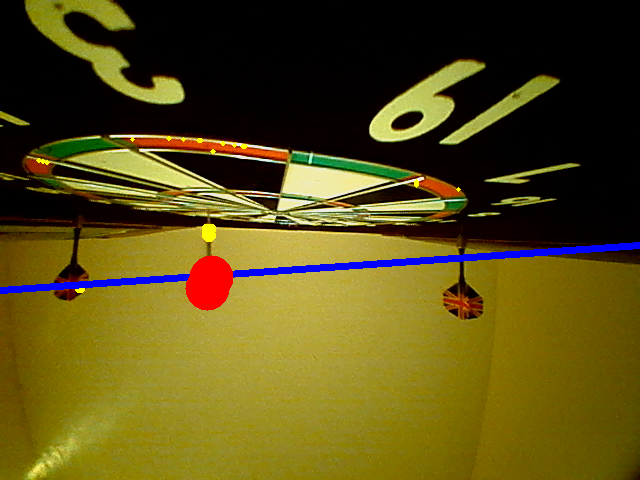
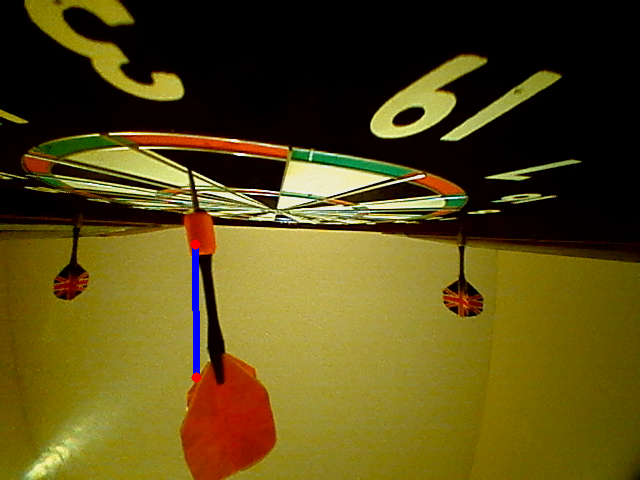
Improves cluster and line drawing systems

diff --git a/screenshot.py b/screenshot.py
@@ -74,45 +74,60 @@ def showResult(coordArr):
     yArr = []
     img = cv2.imread('assets/screenshot.png')
 
-    clusterArr = []
     clusterRange = 40
-    for i in range(len(coordArr)):
-        score = 0
-        for j in range(len(coordArr)):
-            if i == j:
-                pass
-            else:
-                if (coordArr[i][0] - coordArr[j][0])^2 + (coordArr[i][1] - coordArr[j][1])^2 < clusterRange^2:
-                    score = score + 1
-        clusterArr.append(score)
-
-    newClusterArr = clusterArr
-    newClusterArr.sort()
-    highestScores = []
-    clusterPos = []
-    clusterPoint = []
     numClusterPts = 2
-    for i in range(numClusterPts):
-        highestScores.append(newClusterArr[(i+1)*-1])
-    for i in range(numClusterPts):
-        clusterPos.append(clusterArr.index(highestScores[i]))
-        clusterPoint.append(coordArr[clusterPos[i]])        
+    clusterPointArr = []
 
-    if coordArr and len(coordArr) > 0:
+
+    for x in range(numClusterPts):
+        clusterArr = []
         for i in range(len(coordArr)):
-            cv2.circle(img, (coordArr[i][0], coordArr[i][1]), 2, (0, 255, 255), -1)
-            xArr.append(coordArr[i][0])
-            yArr.append(coordArr[i][1])
+            score = 0
+            for j in range(len(coordArr)):
+                if i == j:
+                    pass
+                else:
+                    if (coordArr[i][0] - coordArr[j][0])^2 + (coordArr[i][1] - coordArr[j][1])^2 < clusterRange^2:
+                        score = score + 1
+            clusterArr.append(score)
 
-        a, b = bestFit(xArr, yArr)
-        height, width, channels = img.shape
-        startPoint = (0, int(a))
-        endPoint = (width, int(a+b*width))
-        img = cv2.line(img,startPoint,endPoint,(255,0,0),5)
-    else: 
-        print('No color recognized')
-    for i in range(len(clusterPoint)):
-        cv2.circle(img, clusterPoint[i], 2, (0, 0, 255), clusterRange)
+        newClusterArr = clusterArr
+        newClusterArr.sort()
+        highestScores = []
+        
+        highestScores.append(newClusterArr[-1])
+        clusterPos = clusterArr.index(highestScores[0])
+        print('clusterPos:' + str(clusterPos))
+        print('coordARR:' + str(len(coordArr)))
+        print('Iteration:' + str(x))
+
+        clusterPoint = coordArr[clusterPos]
+        clusterPointArr.append(clusterPoint)
+        removeArr = []
+        for j in range(len(coordArr)):
+            if (coordArr[clusterPos][0] - coordArr[j][0])^2 + (coordArr[clusterPos][1] - coordArr[j][1])^2 < clusterRange^2:
+                removeArr.append(coordArr[j])
+
+        for i in range(len(removeArr)):
+            coordArr.remove(removeArr[i])            
+
+    #if coordArr and len(coordArr) > 0:
+    #    for i in range(len(coordArr)):
+    #        cv2.circle(img, (coordArr[i][0], coordArr[i][1]), 2, (0, 255, 255), -1)
+    #        xArr.append(coordArr[i][0])
+    #        yArr.append(coordArr[i][1])
+
+    #    a, b = bestFit(xArr, yArr)
+    #    height, width, channels = img.shape
+    #    startPoint = (0, int(a))
+    #    endPoint = (width, int(a+b*width))
+    #img = cv2.line(img,clusterPointArr[0],clusterPointArr[1],(255,0,0),5)
+    #else: 
+    #    print('No color recognized')
+    print('Arr:'+ str(len(clusterPointArr)))
+    img = cv2.line(img,clusterPointArr[0],clusterPointArr[1],(255,0,0),5)
+    for i in range(len(clusterPointArr)):
+        cv2.circle(img, clusterPointArr[i], 2, (0, 0, 255), 5)
     
     cv2.imwrite('assets/test.png', img)
     

diff --git a/main.py b/main.py
@@ -13,7 +13,19 @@ cv2.imwrite('assets/screenshot.png', frame)
 errorMargin = 400
 
 #gives a array of background to compare to
-initArr = screenshot.beforeDart()
+initArr1 = screenshot.beforeDart()
+time.sleep(0.2)
+
+(grabbed, frame) = camera.read()
+cv2.imwrite('assets/screenshot.png', frame)
+initArr2 = screenshot.beforeDart()
+time.sleep(0.2)
+
+(grabbed, frame) = camera.read()
+cv2.imwrite('assets/screenshot.png', frame)
+initArr3 = screenshot.beforeDart()
+
+initArr = list(set().union(initArr1, initArr2, initArr3))
 
 addArr = []
 while True:
@@ -22,7 +34,9 @@ while True:
     compArr = screenshot.afterDart(initArr)
     if len(compArr) > errorMargin:
         print('found!')
-        time.sleep(0.5)
+        print(len(compArr))
+        time.sleep(2)
+        (grabbed, frame) = camera.read()
         cv2.imwrite('assets/screenshot.png', frame)
         screenshot.showResult(compArr)
         
